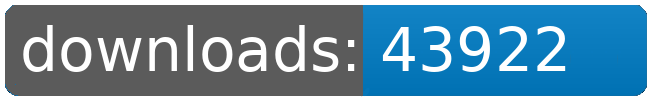
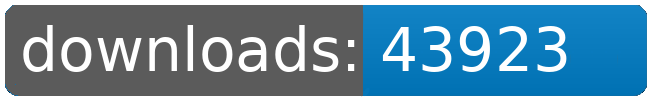
dl log written

Changed region(s): [[0.8308, 0.42, 0.8923, 0.72], [0.8, 0.27, 0.8615, 0.33]]

diff --git a/README.md b/README.md
@@ -21,8 +21,8 @@
 		<td>5451</td>
 		<td>5493</td>
 		<td>5531</td>
-		<td>5548</td>
-		<td>+ 17</td>
+		<td>5549</td>
+		<td>+ 18</td>
 	</tr>
 	<tr>
 		<td>Factory.Outlets</td>
@@ -109,8 +109,8 @@
 		<td></td>
 		<td></td>
 		<td></td>
-		<td>43922</td>
-		<td>79</td>
+		<td>43923</td>
+		<td>80</td>
 	</tr>
 </table>
 </sub></sup>
@@ -157,8 +157,8 @@
 		<td>5451</td>
 		<td>5493</td>
 		<td>5531</td>
-		<td>5548</td>
-		<td>+ 17</td>
+		<td>5549</td>
+		<td>+ 18</td>
 	</tr>
 	<tr>
 		<td>Korunak.Defense.Drones</td>
@@ -223,8 +223,8 @@
 		<td></td>
 		<td></td>
 		<td></td>
-		<td>43922</td>
-		<td>79</td>
+		<td>43923</td>
+		<td>80</td>
 	</tr>
 </table>
 </sub></sup>
